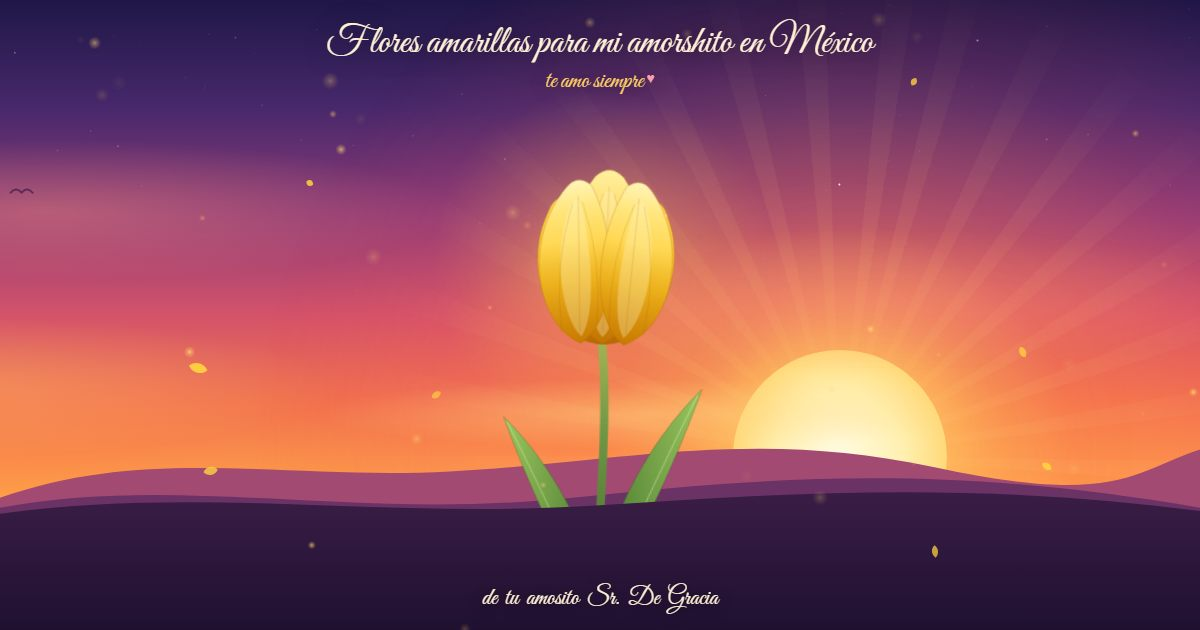
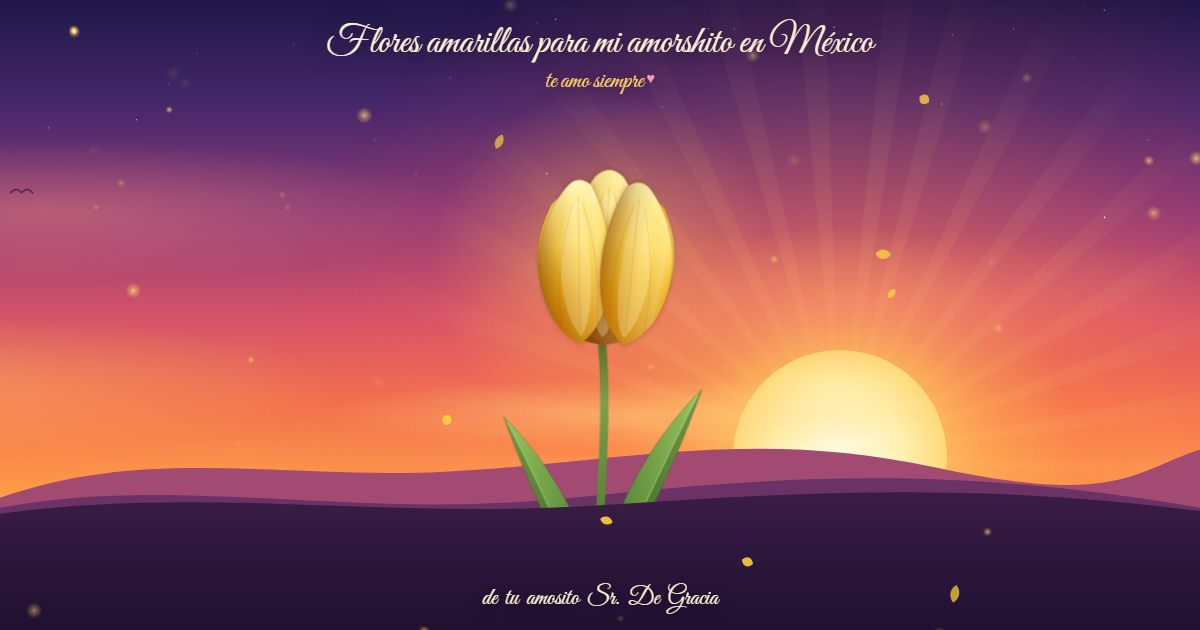
Tulipan con sombreado y volumen (sombras proyectadas, luz lateral, oclusion, hojas dobladas)

diff --git a/js/flower.js b/js/flower.js
@@ -133,18 +133,29 @@
            `C${f(W * 1.12)},${f(-L * .66)} ${f(W)},${f(-L * .14)} 0,0Z`;
   }
 
-  // Un pétalo completo: forma, sombra en la base, brillo interior y nervaduras.
-  function tulipPetal(angle, L, W, bend, fill, delay, shiftX) {
+  // Un pétalo completo, con sombreado para dar volumen:
+  //  - cast: proyecta una sombra suave sobre los pétalos que tiene detrás
+  //  - occ:  se oscurece hacia la base (queda tapado por los pétalos delanteros)
+  function tulipPetal(angle, L, W, bend, fill, delay, shiftX, opts) {
+    const o = opts || {};
     const d = tulipPetalPath(L, W, bend);
     const veins =
       `M0,-14 Q${f(bend * .5)},${f(-L * .5)} ${f(bend * .9)},${f(-L * .9)} ` +
       `M${f(-W * .42)},-18 Q${f(-W * .58 + bend * .4)},${f(-L * .5)} ${f(-W * .12 + bend * .8)},${f(-L * .86)} ` +
       `M${f(W * .42)},-18 Q${f(W * .58 + bend * .4)},${f(-L * .5)} ${f(W * .12 + bend * .8)},${f(-L * .86)}`;
+    // Sombra proyectada: trazos anchos y muy transparentes apilados imitan un desenfoque sin usar filtros.
+    const cast = o.cast
+      ? [[12, .03], [7, .045], [3.5, .07]].map(([w, a]) =>
+          `<path d="${d}" fill="none" stroke="#5a2400" stroke-opacity="${a}" stroke-width="${w}" stroke-linejoin="round"/>`).join('')
+      : '';
     return `<g transform="translate(${shiftX || 0},0)">` +
       `<g class="tp" style="--a:${angle}deg;--d:${delay}s">` +
+        cast +
         `<path d="${d}" fill="${fill}" stroke="rgba(160,90,0,.3)" stroke-width="1"/>` +
         `<path d="${d}" fill="url(#tS)"/>` +
+        (o.occ ? `<path d="${d}" fill="url(#tOcc)"/>` : '') +
         `<path d="${tulipPetalPath(L * .84, W * .42, bend * .6)}" fill="#fff8cc" opacity=".3" transform="translate(${f(bend * .08)},-8)"/>` +
+        `<path d="${d}" fill="url(#tSide)"/>` +
         `<path d="${veins}" fill="none" stroke="rgba(150,80,0,.22)" stroke-width="1" stroke-linecap="round"/>` +
       `</g></g>`;
   }
@@ -153,16 +164,24 @@
   // Hoja larga y arqueada que sale desde la base del tallo.
   const TUL_LEAF = 'M0,0 C34,-60 70,-170 92,-268 C30,-190 -8,-80 0,0Z';
   const TUL_LEAF_VEIN = 'M3,-6 C32,-92 62,-190 88,-260';
+  // Mitad de la hoja a un lado del nervio central: da el efecto de hoja doblada.
+  const TUL_LEAF_SHADE = 'M0,0 C34,-60 70,-170 92,-268 L88,-260 C62,-190 32,-92 3,-6 Z';
   function tulipLeaf(t, angle, flip, size, cls, delay) {
     const [x, y] = bez(TUL_P, t);
     return `<g transform="translate(${f(x)},${f(y)}) rotate(${angle}) scale(${f(flip * size)},${f(size)})">` +
       `<g class="grow" style="--d:${delay}s"><g class="leaf ${cls}">` +
         `<path d="${TUL_LEAF}" fill="url(#leafG)" stroke="rgba(30,70,20,.35)" stroke-width="1"/>` +
+        `<path d="${TUL_LEAF_SHADE}" fill="rgba(12,50,8,.3)"/>` +
         `<path d="${TUL_LEAF_VEIN}" stroke="rgba(230,255,190,.4)" stroke-width="1.4" fill="none" stroke-linecap="round"/>` +
       `</g></g></g>`;
   }
 
   function tulip() {
+    // Tramo alto del tallo (donde cae la sombra de la flor), siguiendo su curva.
+    const stemTop = [.78, .84, .9, .95, 1].map((t, i) => {
+      const [x, y] = bez(TUL_P, t);
+      return (i ? 'L' : 'M') + f(x) + ',' + f(y);
+    }).join(' ');
     return `<defs>${COMMON_DEFS}
         <linearGradient id="tB" gradientUnits="userSpaceOnUse" x1="0" y1="0" x2="0" y2="-180">
           <stop offset="0" stop-color="#cf8300"/><stop offset=".5" stop-color="#efae14"/><stop offset="1" stop-color="#ffd24d"/>
@@ -177,20 +196,39 @@
         <linearGradient id="tS" gradientUnits="userSpaceOnUse" x1="0" y1="0" x2="0" y2="-120">
           <stop offset="0" stop-color="#8a3c00" stop-opacity=".4"/><stop offset="1" stop-color="#8a3c00" stop-opacity="0"/>
         </linearGradient>
+        <!-- Volumen curvo: sombra a la izquierda, luz cálida del sol a la derecha -->
+        <linearGradient id="tSide" x1="0" y1="0" x2="1" y2="0">
+          <stop offset="0" stop-color="#6e2a00" stop-opacity=".5"/>
+          <stop offset=".28" stop-color="#6e2a00" stop-opacity=".14"/>
+          <stop offset=".55" stop-color="#fff6c0" stop-opacity=".14"/>
+          <stop offset=".86" stop-color="#fffbd6" stop-opacity=".32"/>
+          <stop offset="1" stop-color="#ffe9a0" stop-opacity=".08"/>
+        </linearGradient>
+        <!-- Oclusión: más oscuro hacia la base, donde los pétalos se tapan entre sí -->
+        <radialGradient id="tOcc" cx=".5" cy="1" r=".78">
+          <stop offset="0" stop-color="#5c2200" stop-opacity=".6"/>
+          <stop offset=".6" stop-color="#5c2200" stop-opacity=".2"/>
+          <stop offset="1" stop-color="#5c2200" stop-opacity="0"/>
+        </radialGradient>
+        <!-- Sombra de la flor sobre la parte alta del tallo -->
+        <linearGradient id="tStemSh" gradientUnits="userSpaceOnUse" x1="0" y1="300" x2="0" y2="372">
+          <stop offset="0" stop-color="#173010" stop-opacity=".7"/><stop offset="1" stop-color="#173010" stop-opacity="0"/>
+        </linearGradient>
       </defs>
       <g class="plant">
         <path class="stem" pathLength="1" fill="none" stroke="url(#stemG)" stroke-width="10" stroke-linecap="round"
               d="M${TUL_P[0]} C${TUL_P[1]} ${TUL_P[2]} ${TUL_P[3]}"/>
         ${tulipLeaf(.06, -10, -1, .92, 'l1', 1.5)}
         ${tulipLeaf(.10, 7, 1, 1, 'l2', 1.8)}
+        <path class="stem-shade" fill="none" stroke="url(#tStemSh)" stroke-width="10" d="${stemTop}"/>
         <g transform="translate(200,300)">
           <circle class="glow" cy="-100" r="205" fill="url(#glowG)"/>
           <g class="head">
-            ${tulipPetal(-27, 178, 50, 24, 'url(#tB)', 2.3)}
-            ${tulipPetal(27, 178, 50, -24, 'url(#tB)', 2.5)}
-            ${tulipPetal(0, 206, 56, 0, 'url(#tC)', 2.7)}
-            ${tulipPetal(-9, 192, 50, 18, 'url(#tF)', 3.0, -25)}
-            ${tulipPetal(9, 192, 50, -18, 'url(#tF)', 3.2, 25)}
+            ${tulipPetal(-27, 178, 50, 24, 'url(#tB)', 2.3, 0, { occ: true })}
+            ${tulipPetal(27, 178, 50, -24, 'url(#tB)', 2.5, 0, { occ: true })}
+            ${tulipPetal(0, 206, 56, 0, 'url(#tC)', 2.7, 0, { occ: true, cast: true })}
+            ${tulipPetal(-9, 192, 50, 18, 'url(#tF)', 3.0, -25, { cast: true })}
+            ${tulipPetal(9, 192, 50, -18, 'url(#tF)', 3.2, 25, { cast: true })}
           </g>
         </g>
       </g>`;

diff --git a/index.html b/index.html
@@ -19,7 +19,7 @@
 
   <link rel="icon" href="favicon-tulipan.svg" type="image/svg+xml">
   <link rel="preload" href="assets/fonts/great-vibes.woff2" as="font" type="font/woff2" crossorigin>
-  <link rel="stylesheet" href="css/style.css?v=6">
+  <link rel="stylesheet" href="css/style.css?v=7">
 </head>
 <body>
 
@@ -122,14 +122,14 @@
 
     <p class="intro-line">Una flor viajó desde Panamá hasta ti</p>
     <button id="open" class="open-btn" type="button">Abrir</button>
-    <p class="intro-hint">con música de piano ♪</p>
+    <!-- <p class="intro-hint">con música de piano ♪</p> -->
   </div>
 </div>
 
-<script src="js/config.js?v=6" defer></script>
-<script src="js/audio.js?v=6" defer></script>
-<script src="js/flower.js?v=6" defer></script>
-<script src="js/fx.js?v=6" defer></script>
-<script src="js/main.js?v=6" defer></script>
+<script src="js/config.js?v=7" defer></script>
+<script src="js/audio.js?v=7" defer></script>
+<script src="js/flower.js?v=7" defer></script>
+<script src="js/fx.js?v=7" defer></script>
+<script src="js/main.js?v=7" defer></script>
 </body>
 </html>

diff --git a/css/style.css b/css/style.css
@@ -367,3 +367,7 @@ body:not(.open) .glow { visibility: hidden; }
   .bird { display: none; }
   .open-btn { animation: rise .01s 0s forwards !important; }
 }
+
+/* Sombra del tallo (tulipán): aparece cuando ya creció */
+.stem-shade { opacity: 0; }
+.open .stem-shade { animation: fadeIn 1.2s ease-out 2.8s forwards; }
